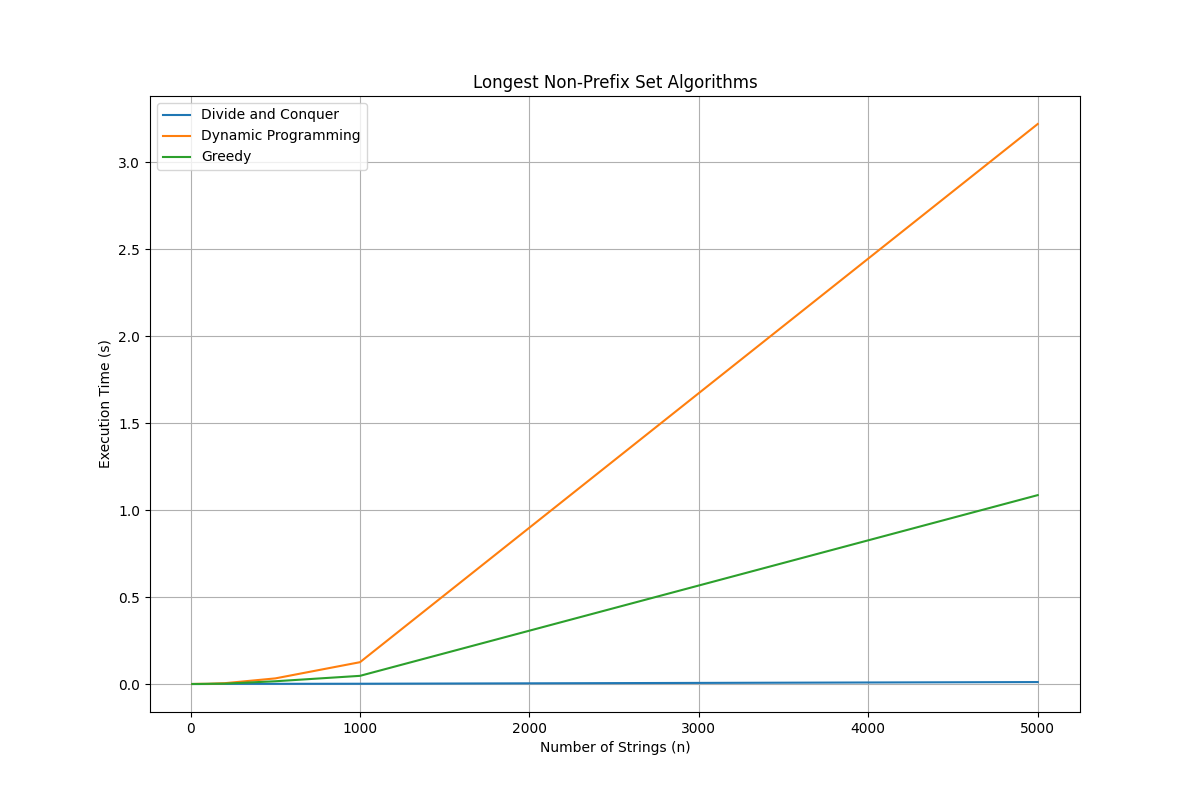
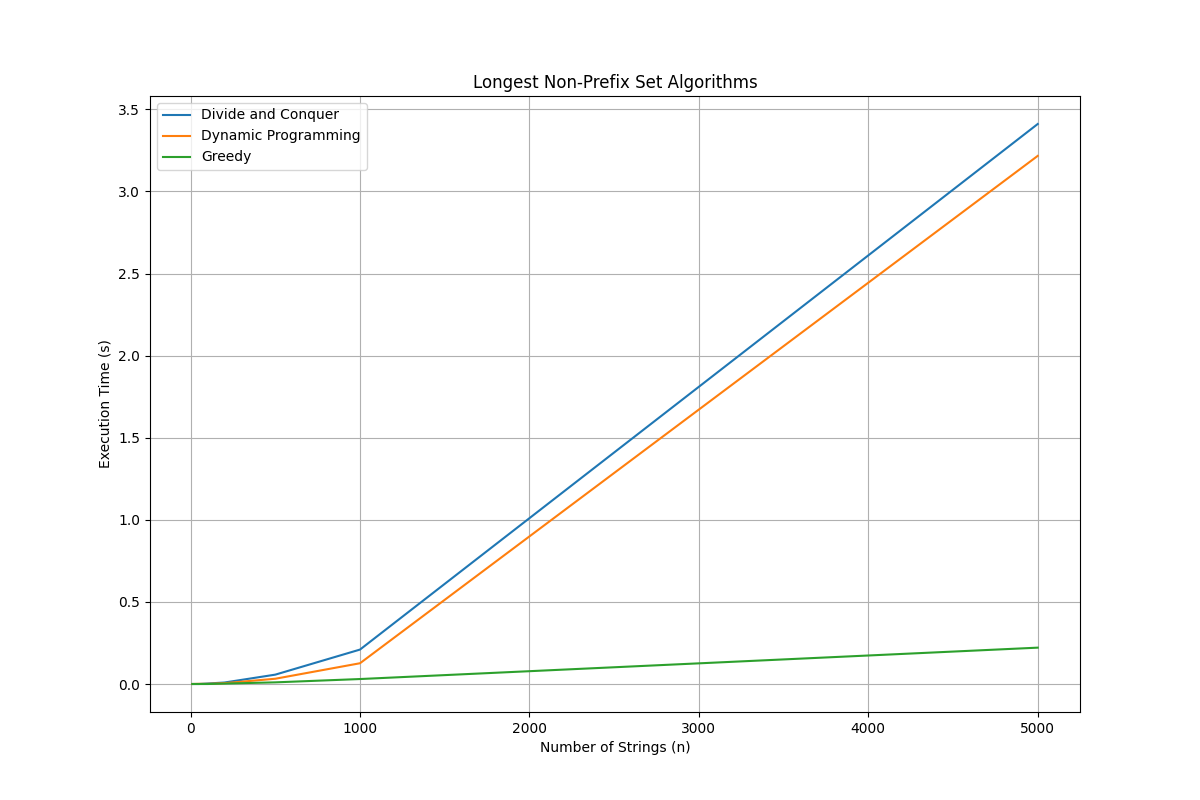
actualizacion de codigo

diff --git a/proyecto.py b/proyecto.py
@@ -13,18 +13,18 @@ def longest_non_prefix_set_divide_conquer(strings):
     left_set = strings[:mid]
     right_set = strings[mid:]
     
+    # Recursively find the largest non-prefix set for left and right subsets
     left_size = longest_non_prefix_set_divide_conquer(left_set)
     right_size = longest_non_prefix_set_divide_conquer(right_set)
     
-    merged_set = left_set + right_set
-    merged_set = sorted(merged_set, key=len)
-    merged_size = 1
-    prev_string = merged_set[0]
-    for s in merged_set[1:]:
-        if not s.startswith(prev_string):
+    # Merge and find the largest non-prefix set for the merged set
+    merged_set = set(left_set) | set(right_set)
+    merged_size = 0
+    for s in merged_set:
+        if all(not s.startswith(t) for t in merged_set if t != s):
             merged_size += 1
-            prev_string = s
     
+    # Return the maximum size among left, right, and merged sets
     return max(left_size, right_size, merged_size)
 
 def longest_non_prefix_set_dynamic(strings):
@@ -52,7 +52,7 @@ def generate_test_cases(n, min_length, max_length):
     strings = []
     for _ in range(n):
         length = random.randint(min_length, max_length)
-        strings.append(''.join(random.choices('abcdefghijklmnopqrstuvwxyz', k=length)))
+        strings.append(''.join(random.choices('abcdefghij', k=length)))
     return strings
 
 def test_and_plot(n_range, min_length, max_length):
@@ -65,6 +65,7 @@ def test_and_plot(n_range, min_length, max_length):
     
     for n in n_range:
         strings = generate_test_cases(n, min_length, max_length)
+
         
         # Divide and Conquer
         start_time = time.time()
@@ -108,6 +109,6 @@ def test_and_plot(n_range, min_length, max_length):
 # Test the algorithms with different input sizes
 n_range = [10, 50, 100, 200, 500, 1000, 5000]
 min_length = 3
-max_length = 10
+max_length = 5
 test_and_plot(n_range, min_length, max_length)
 
